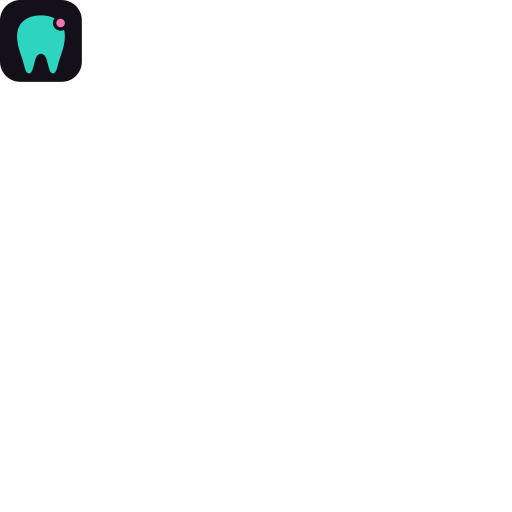
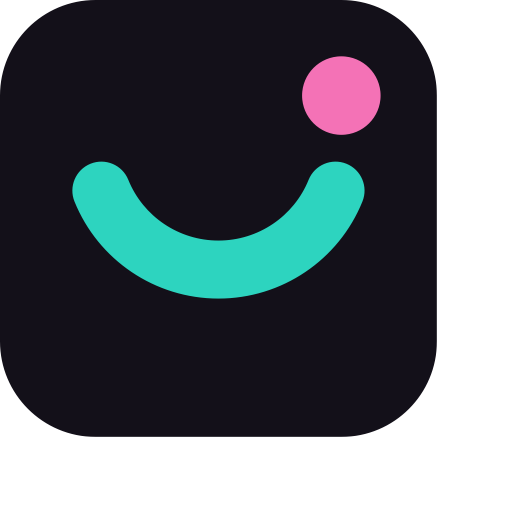
Logotipo definitivo: variante 1A (arco y punto)
Reemplaza el logo provisorio del diente que habia hecho yo.

Las 8 variantes quedan sueltas en apps/frontend/public/marca/ para usarlas
donde haga falta:
  isotipo    color, color-fondo-claro, mono-blanco, mono-negro
  horizontal fondo-oscuro, fondo-claro, mono-blanco, mono-negro

Tres de esas variantes daban 404 en la API de diseno, asi que se derivaron
de la geometria original cambiando unicamente el color.

Integrado en la aplicacion:
- logo.svg, logo-text.svg, sonrisapost.svg, sonrisapost-text.svg
- favicon.svg con media query de prefers-color-scheme: usa el turquesa
  oscuro sobre fondos claros y el claro sobre oscuros, para que se lea en
  cualquier navegador
- favicon.png y los iconos de la extension, rasterizados sobre fondo oscuro
  porque el arco solo es demasiado fino en PNG chico
- LogoTextComponent y el isotipo de la barra lateral
- La landing y el marco de las paginas legales

El texto del logotipo usa currentColor para adaptarse al contexto; el arco y
el punto conservan los colores de marca.

diff --git a/apps/frontend/src/components/ui/logo-text.component.tsx b/apps/frontend/src/components/ui/logo-text.component.tsx
@@ -1,31 +1,38 @@
 import React from 'react';
 
+/**
+ * Logotipo horizontal de SonrisaPost: isotipo (arco de sonrisa con punto) mas
+ * la marca denominativa.
+ *
+ * El texto usa `currentColor` para adaptarse al contexto donde se monte; el
+ * arco y el punto conservan los colores de marca.
+ */
 export const LogoTextComponent = () => {
   return (
     <svg
-      width="230"
-      height="48"
-      viewBox="0 0 230 48"
+      width="219"
+      height="50"
+      viewBox="0 0 1120 256"
       fill="none"
       xmlns="http://www.w3.org/2000/svg"
     >
-      <rect width="48" height="48" rx="12" fill="#131019" />
       <path
-        d="M24 9c-9 0-14 5-14 12 0 6 2 10 3.5 15 1 3.5 1.5 7 3.5 7s2.5-4 3.5-7.5c.7-2.5 1.8-4 3.5-4s2.8 1.5 3.5 4c1 3.5 1.5 7.5 3.5 7.5s2.5-3.5 3.5-7c1.5-5 3.5-9 3.5-15 0-7-5-12-14-12Z"
-        fill="#2DD4BF"
+        d="M59.4 111.7A74 74 0 0 0 196.6 111.7"
+        fill="none"
+        stroke="#2DD4BF"
+        strokeWidth="34"
+        strokeLinecap="round"
       />
-      <circle cx="35.5" cy="13.5" r="4.5" fill="#131019" />
-      <circle cx="35.5" cy="13.5" r="2.5" fill="#F472B6" />
+      <circle cx="200" cy="56" r="23" fill="#F472B6" />
       <text
-        x="60"
-        y="25"
-        fontSize="21"
-        fontWeight="700"
+        x="356"
+        y="150"
+        fontSize="112"
+        fontWeight="600"
+        letterSpacing="-3.9"
         fill="currentColor"
-        dominantBaseline="middle"
       >
-        Sonrisa
-        <tspan fill="#2DD4BF">Post</tspan>
+        Sonrisa<tspan fill="#2DD4BF">Post</tspan>
       </text>
     </svg>
   );

diff --git a/apps/frontend/src/app/(landing)/legal.layout.tsx b/apps/frontend/src/app/(landing)/legal.layout.tsx
@@ -25,15 +25,16 @@ export const LegalLayout = ({
       <header className="w-full border-b border-[#2b2a2a]">
         <nav className="max-w-[820px] mx-auto px-[20px] h-[72px] flex items-center justify-between">
           <Link href="/" className="flex items-center gap-[10px]">
-            <svg width="32" height="32" viewBox="0 0 48 48" fill="none">
-              <rect width="48" height="48" rx="12" fill="#131019" />
-              <path
-                d="M24 9c-9 0-14 5-14 12 0 6 2 10 3.5 15 1 3.5 1.5 7 3.5 7s2.5-4 3.5-7.5c.7-2.5 1.8-4 3.5-4s2.8 1.5 3.5 4c1 3.5 1.5 7.5 3.5 7.5s2.5-3.5 3.5-7c1.5-5 3.5-9 3.5-15 0-7-5-12-14-12Z"
-                fill="#2DD4BF"
-              />
-              <circle cx="35.5" cy="13.5" r="4.5" fill="#131019" />
-              <circle cx="35.5" cy="13.5" r="2.5" fill="#F472B6" />
-            </svg>
+            <svg width="32" height="32" viewBox="0 0 256 256" fill="none">
+      <path
+        d="M59.4 111.7A74 74 0 0 0 196.6 111.7"
+        fill="none"
+        stroke="#2DD4BF"
+        strokeWidth="34"
+        strokeLinecap="round"
+      />
+      <circle cx="200" cy="56" r="23" fill="#F472B6" />
+    </svg>
             <span className="text-[17px] font-[700]">
               Sonrisa<span className="text-[#2DD4BF]">Post</span>
             </span>

diff --git a/apps/frontend/src/components/new-layout/logo.tsx b/apps/frontend/src/components/new-layout/logo.tsx
@@ -1,22 +1,29 @@
 'use client';
 
+/**
+ * Isotipo de SonrisaPost para la barra lateral: el arco de sonrisa con el punto.
+ *
+ * Va sin contenedor, como lo definio el diseno. El viewBox de 256 se mantiene
+ * para que coincida con los SVG de la carpeta public/marca.
+ */
 export const Logo = () => {
   return (
     <svg
       xmlns="http://www.w3.org/2000/svg"
-      width="60"
-      height="60"
-      viewBox="0 0 48 48"
+      width="52"
+      height="52"
+      viewBox="0 0 256 256"
       fill="none"
-      className="mt-[8px] min-w-[60px] min-h-[60px]"
+      className="mt-[8px] min-w-[52px] min-h-[52px]"
     >
-      <rect width="48" height="48" rx="12" fill="#131019" />
       <path
-        d="M24 9c-9 0-14 5-14 12 0 6 2 10 3.5 15 1 3.5 1.5 7 3.5 7s2.5-4 3.5-7.5c.7-2.5 1.8-4 3.5-4s2.8 1.5 3.5 4c1 3.5 1.5 7.5 3.5 7.5s2.5-3.5 3.5-7c1.5-5 3.5-9 3.5-15 0-7-5-12-14-12Z"
-        fill="#2DD4BF"
+        d="M59.4 111.7A74 74 0 0 0 196.6 111.7"
+        fill="none"
+        stroke="#2DD4BF"
+        strokeWidth="34"
+        strokeLinecap="round"
       />
-      <circle cx="35.5" cy="13.5" r="4.5" fill="#131019" />
-      <circle cx="35.5" cy="13.5" r="2.5" fill="#F472B6" />
+      <circle cx="200" cy="56" r="23" fill="#F472B6" />
     </svg>
   );
 };

diff --git a/apps/frontend/src/app/(landing)/page.tsx b/apps/frontend/src/app/(landing)/page.tsx
@@ -17,14 +17,15 @@ const TOTAL_PLANTILLAS = DENTAL_SPECIALTIES.reduce(
 
 const Marca = () => (
   <div className="flex items-center gap-[10px]">
-    <svg width="36" height="36" viewBox="0 0 48 48" fill="none">
-      <rect width="48" height="48" rx="12" fill="#131019" />
+    <svg width="36" height="36" viewBox="0 0 256 256" fill="none">
       <path
-        d="M24 9c-9 0-14 5-14 12 0 6 2 10 3.5 15 1 3.5 1.5 7 3.5 7s2.5-4 3.5-7.5c.7-2.5 1.8-4 3.5-4s2.8 1.5 3.5 4c1 3.5 1.5 7.5 3.5 7.5s2.5-3.5 3.5-7c1.5-5 3.5-9 3.5-15 0-7-5-12-14-12Z"
-        fill="#2DD4BF"
+        d="M59.4 111.7A74 74 0 0 0 196.6 111.7"
+        fill="none"
+        stroke="#2DD4BF"
+        strokeWidth="34"
+        strokeLinecap="round"
       />
-      <circle cx="35.5" cy="13.5" r="4.5" fill="#131019" />
-      <circle cx="35.5" cy="13.5" r="2.5" fill="#F472B6" />
+      <circle cx="200" cy="56" r="23" fill="#F472B6" />
     </svg>
     <span className="text-[19px] font-[700]">
       Sonrisa<span className="text-[#2DD4BF]">Post</span>
